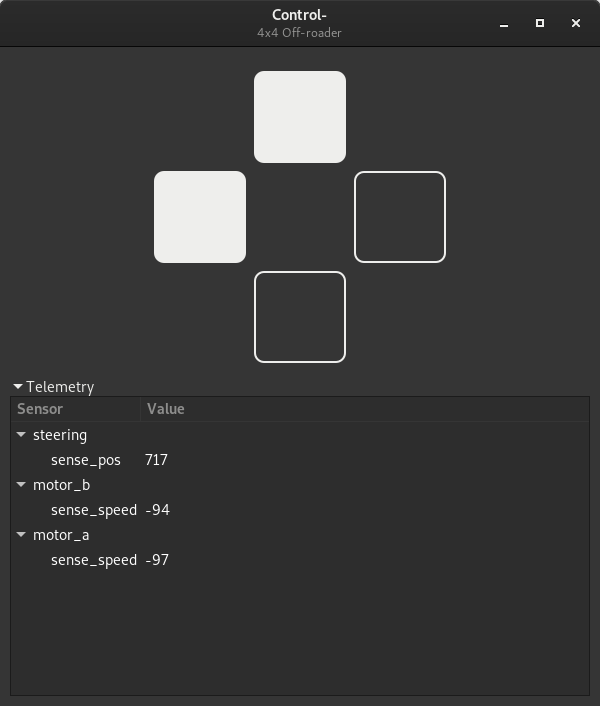
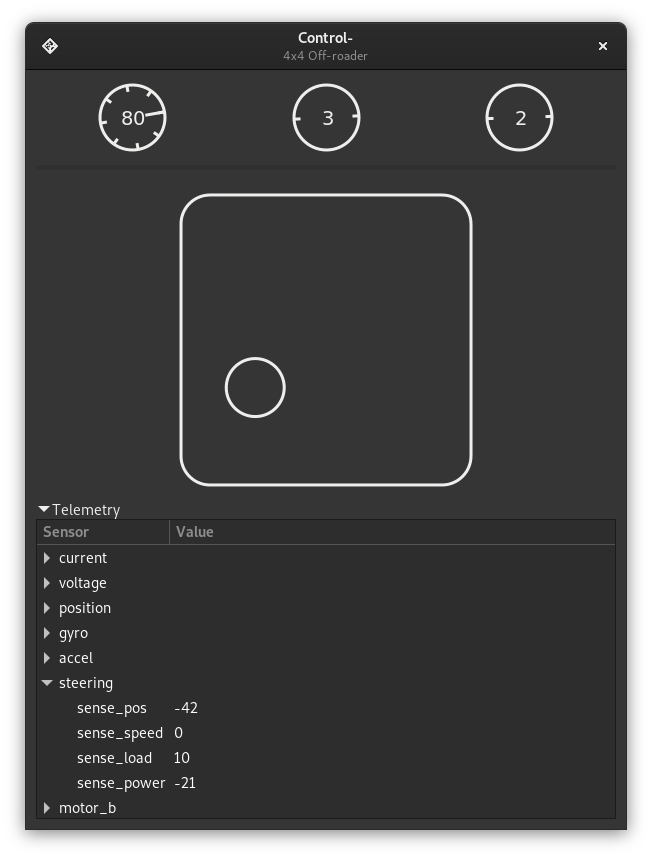
Another bunch of changes since last year...
...yes, I know I should have committed changes more often and in a
meaningful way, but...

Anyways, this commit contains a bunch of changes:

 * run bricknil code within GTK event loop using glib-coro

 * reworked UI which now displays virtual "joystick" as well as data
   from hub sensors - orientation, roll and pitch.

 * support for Sony Dualshock controller.

 * more "friendly" process of starting up and connecting - the UI now
   displays instruction like "press the green button" and so on.

diff --git a/controlminus/ui/vehicle.py b/controlminus/ui/vehicle.py
@@ -28,9 +28,9 @@ import bricknil
 
 from gi.repository import GObject, Gtk, Gdk, Gio, GLib
 
-from controlminus import GTKEventLoopPolicy
+from controlminus import GTKEventLoopPolicy, GLibEventLoop
 from controlminus.model import Vehicle
-from controlminus.ui.widget import KeyPad, Joystick, TiltIndicator, BearingIndicator
+from controlminus.ui.widget import Joystick, TiltIndicator, BearingIndicator
 from controlminus.ui.controller import DualShock3
 
 class VehicleApp(Gtk.Application):
@@ -46,6 +46,10 @@ class VehicleApp(Gtk.Application):
         action.connect("activate", self.on_calibrate)
         self.add_action(action)
 
+        action = Gio.SimpleAction.new("debug", None)
+        action.connect("activate", self.on_debug)
+        self.add_action(action)
+
         action = Gio.SimpleAction.new("quit", None)
         action.connect("activate", self.on_quit)
         self.add_action(action)
@@ -57,15 +61,15 @@ class VehicleApp(Gtk.Application):
 
         self.builder = Gtk.Builder()
         self.builder.add_from_file("controlminus/ui/vehicle.ui")
+        self.builder.get_object("window").connect('destroy', self.on_destroy)
+
         #keypad = KeyPad()
-        keypad = Joystick()
-        keypad.set_halign(Gtk.Align.CENTER)
-        keypad.set_valign(Gtk.Align.CENTER)
-        keypad.set_hexpand(True)
-        keypad.set_vexpand(True)
-        keypad.connect("notify::x", self.on_notify_x)
-        keypad.connect("notify::y", self.on_notify_y)
-        self.builder.get_object("keypad-box").add(keypad)
+        self.keypad = Joystick()
+        self.keypad.set_halign(Gtk.Align.CENTER)
+        self.keypad.set_valign(Gtk.Align.CENTER)
+        self.keypad.set_hexpand(True)
+        self.keypad.set_vexpand(True)
+        self.builder.get_object("keypad-box").add(self.keypad)
 
         self.bearing = BearingIndicator()
         self.bearing.set_halign(Gtk.Align.CENTER)
@@ -113,13 +117,13 @@ class VehicleApp(Gtk.Application):
             def x_changed(controller, prop):
                 v = controller.get_property(prop.name)
                 v = scale(v, (0, 255), (-100, 100))
-                keypad.set_property("x", v)
+                self.keypad.set_property("x", v)
 
             def y_changed(controller, prop):
                 v = controller.get_property(prop.name)
                 v = -1 * scale(v, (0, 255), (-100, 100))
-                keypad.set_property("y", v)
-            
+                self.keypad.set_property("y", v)
+
             controller.connect("notify::abs-l-x", x_changed)
             controller.connect("notify::abs-r-y", y_changed)
         except:
@@ -129,42 +133,79 @@ class VehicleApp(Gtk.Application):
         set_event_loop_policy(GTKEventLoopPolicy())
         self.vehicle_loop = get_event_loop()
         self.vehicle_loop.be_running()
-        
+
+        def exception_handler(context):
+        	breakpoint()
+
         # Setup model
         self.vehicle = Vehicle()
+        self.vehicle.connect('connected', self.on_connected)
+        self.vehicle.connect('initialized', self.on_initialized)
+        self.vehicle.connect('disconnected', self.on_disconnected)
 
-        async def setup():
-            await bricknil.init()                        
-            for name, peripheral in self.vehicle.peripherals.items():
-                peripheral.connect('notify', self.on_vehicle_sensor_reading_changed)
-            self.on_vehicle_created()
+        # async def setup():
+        #     initialized = False
+        #     while not initialized:
+        #         try:
+        #             self.builder.get_object("content").set_visible_child(self.builder.get_object("connecting"))
+        #             await bricknil.initialize()
+        #             initialized = True
+        #         except Exception as ex:
+        #             if str(ex) == "Bluetooth adapter not found":
+        #                 self.builder.get_object("content").set_visible_child(self.builder.get_object("nobtdevice"))
+        #                 await sleep(1)
+        #             else:
+        #                 raise ex
+
+        #     for name, peripheral in self.vehicle.peripherals.items():
+        #         peripheral.connect('notify', self.on_vehicle_sensor_reading_changed)
 
         if controller != None:
-            self.vehicle_loop.create_task(controller.dispatch())    
-        self.vehicle_loop.create_task(setup())
-            
-        
+            spawn(controller.dispatch())
+        spawn(self.connect_task())
+
+    async def connect_task(self):
+        self.builder.get_object("content").set_visible_child(self.builder.get_object("connecting"))
+        await bricknil.initialize()
+
+        self.telemetry_store_map = {}
+        for name, peripheral in self.vehicle.peripherals.items():
+            peripheral_item = self.telemetry_store.append(None, [name, ''])
+            for cap in peripheral.capabilities:
+                cap_value = peripheral.value[cap] if peripheral.value != None else 'N/A'
+                cap_item = self.telemetry_store.append(peripheral_item, [ cap.name, str(cap_value) ])
+                self.telemetry_store_map[(peripheral, cap)] = cap_item
+            peripheral.connect('notify', self.on_vehicle_sensor_reading_changed)
+
     def do_activate(self):
-        window = self.builder.get_object("app-window")
+        window = self.builder.get_object("window")
         window.set_application(self)
         window.show_all()
 
-    def on_quit(self, widget, data):        
-        async def quit():
-            await bricknil.fini()
-            self.quit()            
-        self.vehicle_loop.create_task(quit())
+    def on_destroy(self, widget):
+        self.on_quit(widget, None)
+
+    def on_quit(self, widget, data):
+        async def quit_task():
+            self.builder.get_object("content").set_visible_child(self.builder.get_object("shuttingdown"))
+            await bricknil.finalize()
+            self.quit()
+        spawn(quit_task())
 
     def on_calibrate(self, widget, data):
-        run_coroutine_threadsafe(self.vehicle.steering_calibrate(), self.vehicle_loop)
+        spawn(self.vehicle.steering_calibrate())
+
+    def on_debug(self, widget, data):
+    	import pdb
+    	pdb.set_trace()
 
     def on_notify_x(self, widget, prop):
         steering = widget.get_property(prop.name)
-        run_coroutine_threadsafe(self.vehicle.steer(steering, 50), self.vehicle_loop)
+        spawn(self.vehicle.steer(steering, 50))
 
     def on_notify_y(self, widget, prop):
         speed = widget.get_property(prop.name)
-        run_coroutine_threadsafe(self.vehicle.speed(speed), self.vehicle_loop)
+        spawn(self.vehicle.speed(speed))
 
     def on_vehicle_sensor_reading_changed(self, peripheral):
         for cap in peripheral.capabilities:
@@ -176,11 +217,26 @@ class VehicleApp(Gtk.Application):
             self.pitch.set_property("angle", peripheral.sense_pos[1])
             self.roll.set_property("angle", peripheral.sense_pos[2])
 
-    def on_vehicle_created(self):
-        self.telemetry_store_map = {}
-        for name, peripheral in self.vehicle.peripherals.items():
-            peripheral_item = self.telemetry_store.append(None, [name, ''])
-            for cap in peripheral.capabilities:
-                cap_value = peripheral.value[cap] if peripheral.value != None else 'N/A'
-                cap_item = self.telemetry_store.append(peripheral_item, [ cap.name, str(cap_value) ])
-                self.telemetry_store_map[(peripheral, cap)] = cap_item
+    def on_connected(self, vehicle):
+        """
+        Called when hub is connected
+        """
+        self.builder.get_object("content").set_visible_child(self.builder.get_object("initializing"))
+
+    def on_initialized(self, vehicle):
+        """
+        Called when hub is initialized
+        """
+        self.builder.get_object("content").set_visible_child(self.builder.get_object("dashboard"))
+
+        self.keypad.connect("notify::x", self.on_notify_x)
+        self.keypad.connect("notify::y", self.on_notify_y)
+
+    def on_disconnected(self, vehicle):
+        """
+        Called when hub disconnects.
+        """
+        spawn(self.connect_task())
+
+
+

diff --git a/controlminus/model.py b/controlminus/model.py
@@ -30,10 +30,10 @@ from bricknil.sensor.sensor import PoweredUpHubIMUPosition, PoweredUpHubIMUAccel
 
 @attach(CPlusXLMotor, name='motor_a', port=0, capabilities=[('sense_speed', 5), ('sense_load', 5), ('sense_power', 5)])
 @attach(CPlusXLMotor, name='motor_b', port=1, capabilities=[('sense_speed', 5), ('sense_load', 5), ('sense_power', 5)])
-@attach(CPlusLMotor, name='steering', port=2, capabilities=[('sense_pos', 1), ('sense_speed', 5), ('sense_load', 5), ('sense_power', 5)])
+@attach(CPlusLMotor, name='steering', port=2, capabilities=[('sense_pos', 5), ('sense_speed', 5), ('sense_load', 5), ('sense_power', 5)])
 @attach(PoweredUpHubIMUAccelerometer, name='accel', capabilities=[('sense_grv', 5)])
 @attach(PoweredUpHubIMUGyro, name='gyro', capabilities=[('sense_rot', 5)])
-@attach(PoweredUpHubIMUPosition, name='position', port=99, capabilities=[('sense_pos', 2)])
+@attach(PoweredUpHubIMUPosition, name='position', port=99, capabilities=[('sense_pos', 5)])
 @attach(VoltageSensor, name='voltage', capabilities=[('sense_l', 10)])
 @attach(CurrentSensor, name='current', capabilities=[('sense_l', 10)])
 class Vehicle(CPlusHub):
@@ -64,7 +64,7 @@ class Vehicle(CPlusHub):
     async def steering_change(self):
         self.steering_angle = self.steering.sense_pos
         # steering_speed = self.steering.sense_speed
-        # print("I: steering pos: %s, target %s" % (self.steering_angle, self.steering_target))
+        # self.message_info(": steering pos: %s, target %s" % (self.steering_angle, self.steering_target))
         # if self.steering_calibration_in_process:
         #     return
         # diff = 0
@@ -87,13 +87,13 @@ class Vehicle(CPlusHub):
         await self.steering.rotate(180, 50, 100)
         await wait_until_steering_stop()
         self.steering_angle_max = self.steering_angle
-        print("I: steering_calibrate - right stop: %s" % self.steering_angle_max)
+        self.message_info(": steering_calibrate - right stop: %s" % self.steering_angle_max)
 
         # await self.steering.set_speed(-60)
         await self.steering.rotate(180,-50, 100)
         await wait_until_steering_stop()
         self.steering_angle_min = self.steering_angle
-        print("I: steering_calibrate - left stop: %s" % self.steering_angle_min)
+        self.message_info(": steering_calibrate - left stop: %s" % self.steering_angle_min)
 
         zero = int( (self.steering_angle_max + self.steering_angle_min) / 2)
         half = int( abs(self.steering_angle_max - self.steering_angle_min) / 2 )
@@ -105,7 +105,7 @@ class Vehicle(CPlusHub):
         self.steering_angle_min = zero - half
         self.steering_angle_max = zero + half
 
-        print("I: steering_calibrate 1: %s (zero) %s (min) %s (max)" % (zero, self.steering_angle_min, self.steering_angle_max))
+        self.message_info(": steering_calibrate 1: %s (zero) %s (min) %s (max)" % (zero, self.steering_angle_min, self.steering_angle_max))
 
         await self.steering.set_pos(zero, speed=50)
         await sleep(2)
@@ -115,7 +115,7 @@ class Vehicle(CPlusHub):
         self.steering_angle_min = -half
         self.steering_angle_max = +half
         self.steering_target = 0
-        print("I: steering_calibrate 2: %s (zero) %s (min) %s (max)" % (zero, self.steering_angle_min, self.steering_angle_max))
+        self.message_info(": steering_calibrate 2: %s (zero) %s (min) %s (max)" % (zero, self.steering_angle_min, self.steering_angle_max))
 
         await sleep(2)
         self.steering_calibration_in_process = False
@@ -123,7 +123,7 @@ class Vehicle(CPlusHub):
     async def steer(self, pct, speed=60):
         if abs(pct) < 10:
             pct = 0
-        
+
         zero = int((self.steering_angle_min + self.steering_angle_max) / 2)
         half = abs(self.steering_angle_max - zero)
         new_target = zero + int((pct / 100) * half)
@@ -133,9 +133,11 @@ class Vehicle(CPlusHub):
         self.steering_target = zero + int((pct / 100) * half)
         #breakpoint()
         diff = abs(self.steering_target - self.steering.sense_pos)
-        speed = int((diff / half) * speed)
+        #speed = int((diff / half) * speed)
+        speed = 50
 
-        print("I: steering_target = %d, speed = %d" % (self.steering_target, speed))
+        #self.message_info("steering_target = %d, speed = %d" % (self.steering_target, speed))
+        print("I:steering_target = %d, speed = %d" % (self.steering_target, speed))
 
         await self.steering.set_pos(self.steering_target, speed=speed, max_power=100)
 
@@ -146,22 +148,20 @@ class Vehicle(CPlusHub):
         """
         #await self.motor_a.set_speed(-1*pct)
         #await self.motor_b.set_speed(-1*pct)
+        self.message_info(": speed = %d" % pct)
         if abs(pct) < 10:
             await self.motor_a.set_speed(0)
             await self.motor_b.set_speed(0)
         else:
-            await self.motor_a.ramp_speed2(-1*pct,500)
-            await self.motor_b.ramp_speed2(-1*pct,500)
+            #await self.motor_a.ramp_speed2(-1*pct,500)
+            #await self.motor_b.ramp_speed2(-1*pct,500)
+            await self.motor_a.set_speed(-1*pct)
+            await self.motor_b.set_speed(-1*pct)
 
-    async def run(self):
-        # await sleep(15)
-        # self.position.connect("notify", self.on_notify)
 
+    async def initialize(self):
         await self.steering_calibrate()
 
-        try:
-            pass
-            # while True:
-            #     await sleep(15)
-        except CancelledError:
-            pass
+    async def finalize(self):
+        await self.speed(0)
+        await self.steer(0)

diff --git a/vehicle.py b/vehicle.py
@@ -9,7 +9,7 @@
 # distribute, sublicense, and/or sell copies of the Software, and to
 # permit persons to whom the Software is furnished to do so, subject to
 # the following conditions:
-# 
+#
 # The above copyright notice and this permission notice shall be
 # included in all copies or substantial portions of the Software.
 #

diff --git a/README.md b/README.md
@@ -20,7 +20,9 @@ git clone https://github.com/janvrany/controlminus.git
 cd controlminus
 virtualenv --system-site-packages --prompt "[control-] " -v .venv
 . .venv/bin/activate
+pip install -e ../bleak
 pip install -e ../bricknil
+pip install git+https://github.com/ldo/glibcoro.git
 ```
 
 ## Running
